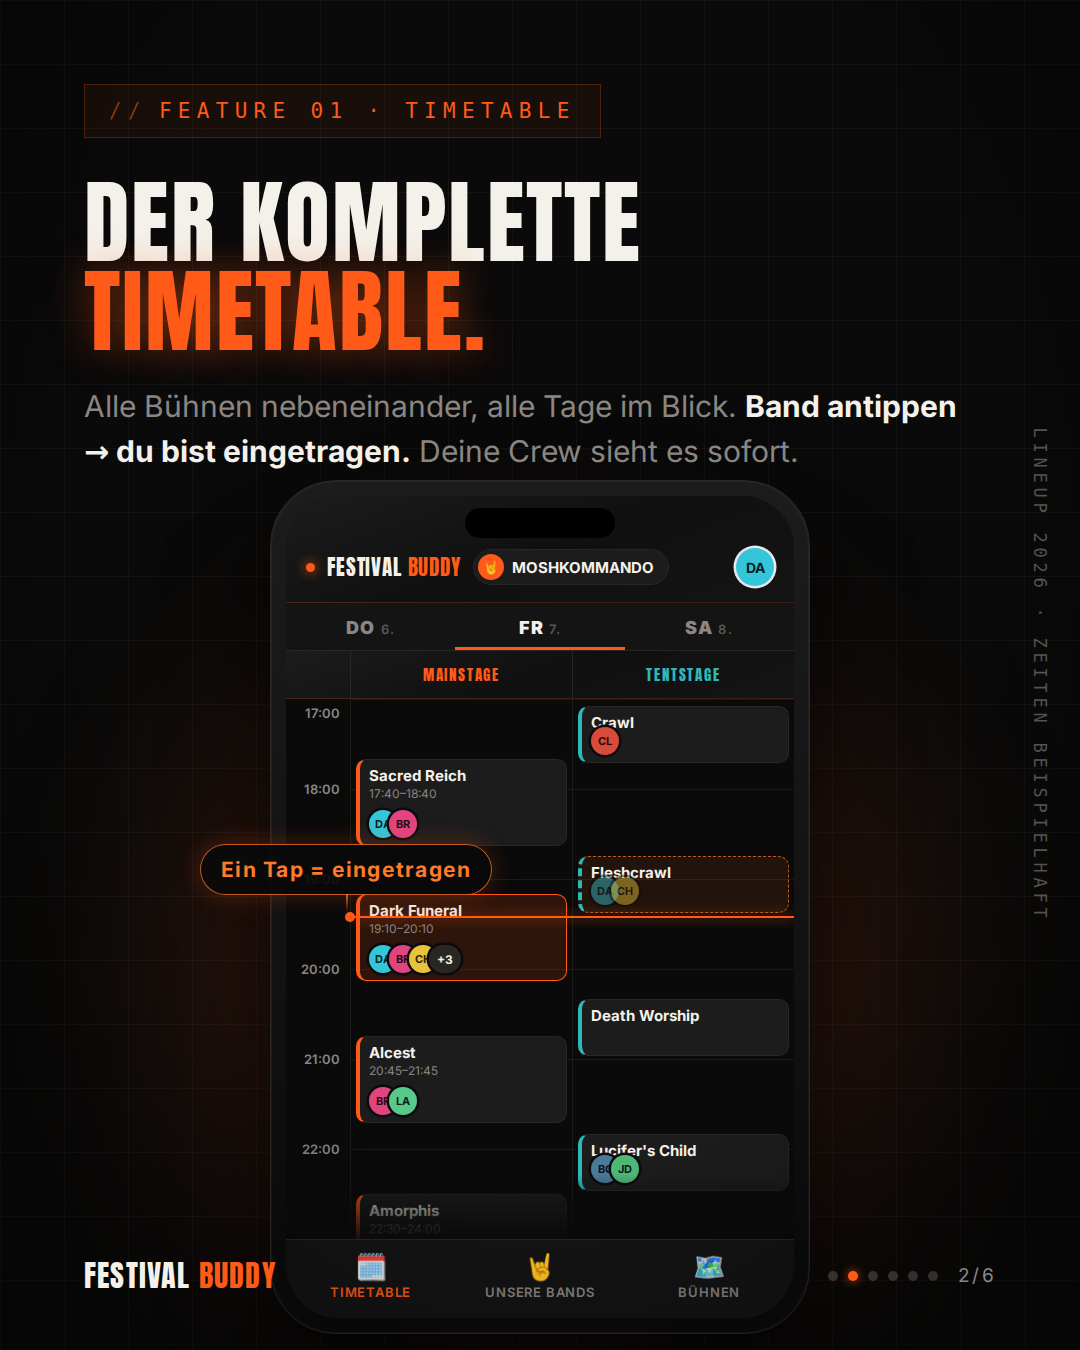
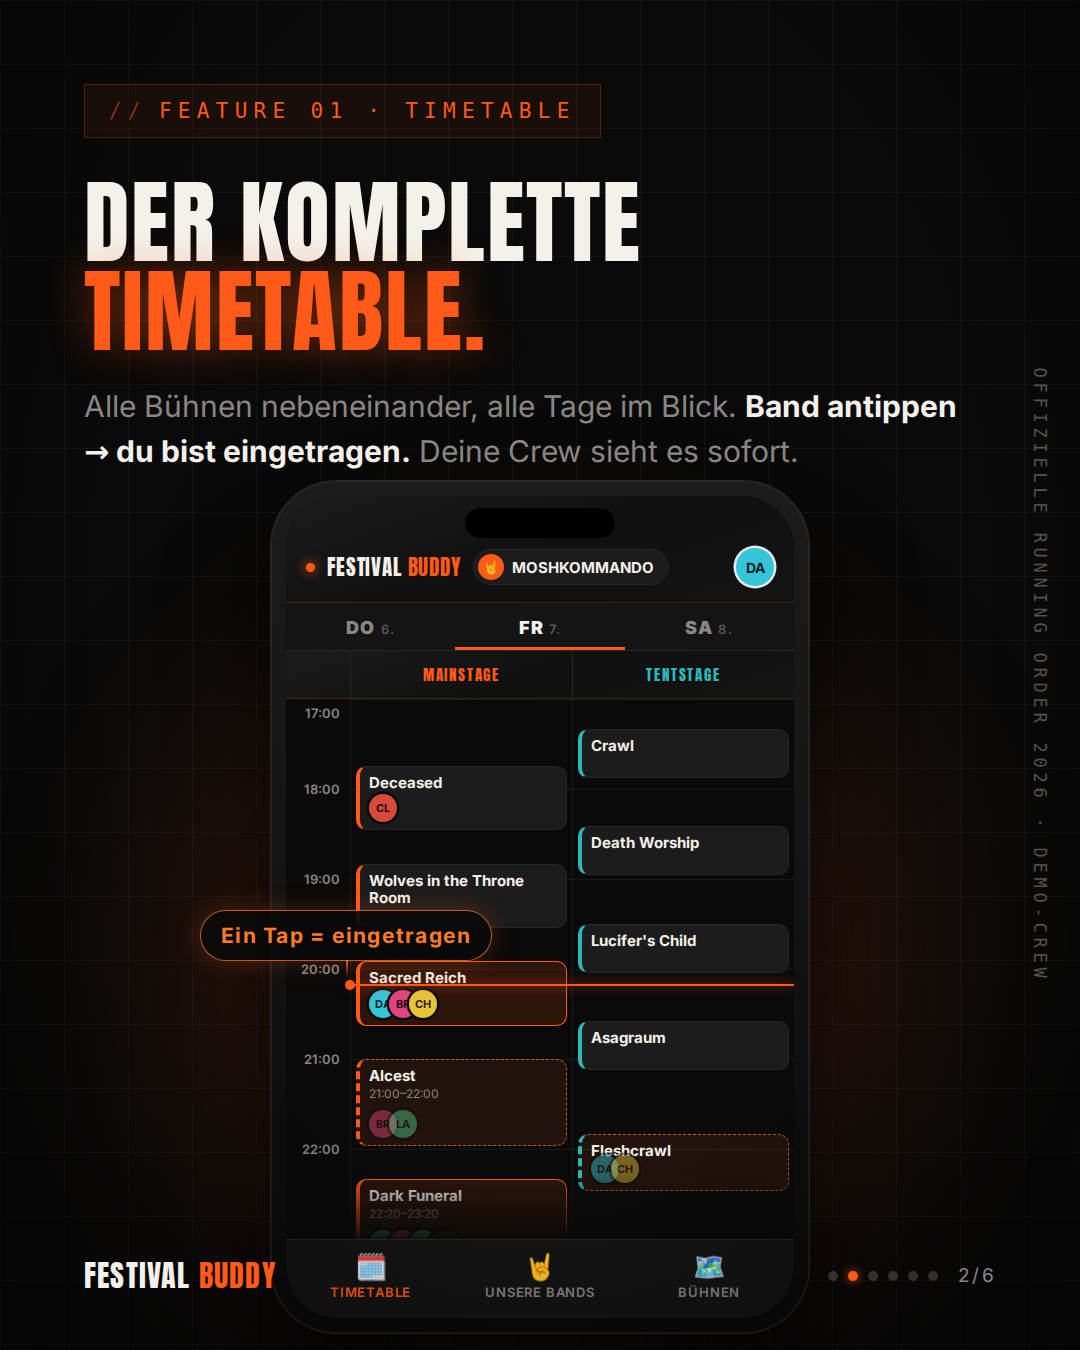
Party.San-Slides: offizielle Set-Zeiten aus der Running Order übernehmen
Freitag jetzt mit den echten Slots (Deceased 17:45, Wolves in the Throne
Room 18:50, Sacred Reich 19:55, Alcest 21:00, Dark Funeral 22:20,
Amorphis 23:45–01:00; Zelt: Crawl, Death Worship, Lucifer's Child,
Asagraum, Fleshcrawl 21:50) sowie Samstag Marduk 22:20 und Hypocrisy
23:45. Randvermerk zu „Offizielle Running Order 2026 · Demo-Crew"
geändert, Caption/README entsprechend aktualisiert.

Claude-Session: https://claude.ai/code/session_01LqDVWkAJcfSMQa3GPH9HTd

diff --git a/docs/instagram/partysan/slides.html b/docs/instagram/partysan/slides.html
@@ -409,8 +409,8 @@
           <div class="day-h">Freitag <span class="d">· 07.08.</span></div>
           <div class="cards">
             <div class="card going">
-              <div class="tbox" style="background:rgba(255,90,23,.13);"><span class="t" style="color:#ff5a17;">17:40</span><span class="s" style="color:#ff5a17;">Main</span></div>
-              <div class="mid"><div class="band">Sacred Reich</div><div class="sub">Mainstage · bis 18:40 Uhr</div></div>
+              <div class="tbox" style="background:rgba(255,90,23,.13);"><span class="t" style="color:#ff5a17;">19:55</span><span class="s" style="color:#ff5a17;">Main</span></div>
+              <div class="mid"><div class="band">Sacred Reich</div><div class="sub">Mainstage · bis 20:40 Uhr</div></div>
               <div class="right">
                 <span style="display:flex;padding-left:8px;">
                   <span class="ava first" style="background:#35c5d8;">DA</span><span class="ava" style="background:#e0457f;">BR</span><span class="ava" style="background:#e8c33a;">CH</span>
@@ -424,8 +424,8 @@
                 <span class="fl" style="left:47%;height:22px;"></span><span class="fl" style="left:66%;height:32px;width:26px;"></span>
                 <span class="fl" style="left:86%;height:24px;"></span>
               </div>
-              <div class="tbox" style="background:rgba(255,90,23,.13);"><span class="t" style="color:#ff5a17;">19:10</span><span class="s" style="color:#ff5a17;">Main</span></div>
-              <div class="mid"><div class="band">Dark Funeral</div><div class="sub">Mainstage · bis 20:10 Uhr</div></div>
+              <div class="tbox" style="background:rgba(255,90,23,.13);"><span class="t" style="color:#ff5a17;">22:20</span><span class="s" style="color:#ff5a17;">Main</span></div>
+              <div class="mid"><div class="band">Dark Funeral</div><div class="sub">Mainstage · bis 23:20 Uhr</div></div>
               <div class="right">
                 <span style="display:flex;padding-left:8px;">
                   <span class="ava first" style="background:#35c5d8;">DA</span><span class="ava" style="background:#e0457f;">BR</span><span class="ava" style="background:#57c98a;">LA</span><span class="ava more">+4</span>
@@ -434,8 +434,8 @@
               </div>
             </div>
             <div class="card going">
-              <div class="tbox" style="background:rgba(255,90,23,.13);"><span class="t" style="color:#ff5a17;">22:30</span><span class="s" style="color:#ff5a17;">Main</span></div>
-              <div class="mid"><div class="band">Amorphis</div><div class="sub">Mainstage · bis 24:00 Uhr</div></div>
+              <div class="tbox" style="background:rgba(255,90,23,.13);"><span class="t" style="color:#ff5a17;">23:45</span><span class="s" style="color:#ff5a17;">Main</span></div>
+              <div class="mid"><div class="band">Amorphis</div><div class="sub">Mainstage · bis 01:00 Uhr</div></div>
               <div class="right">
                 <span style="display:flex;padding-left:8px;">
                   <span class="ava first" style="background:#35c5d8;">DA</span><span class="ava" style="background:#e0457f;">BR</span><span class="ava" style="background:#e8c33a;">CH</span><span class="ava more">+3</span>
@@ -449,7 +449,7 @@
     </div>
   </div>
 
-  <div class="demo-note mono">Lineup 2026 · Zeiten beispielhaft</div>
+  <div class="demo-note mono">Offizielle Running Order 2026 · Demo-Crew</div>
   <div class="foot">
     <span class="wordmark metal">Festival <span>Buddy</span></span>
     <span class="dots"><i class="on"></i><i></i><i></i><i></i><i></i><i></i><span class="n">1/6</span></span>
@@ -506,43 +506,51 @@
           <span class="hour" style="top:450px;">22:00</span>
         </div>
         <div class="col">
-          <div class="gslot" style="top:60px;height:87px;border-left-color:#ff5a17;">
-            <div class="b">Sacred Reich</div><div class="tm">17:40–18:40</div>
-            <div class="avs"><span class="ava first" style="background:#35c5d8;">DA</span><span class="ava" style="background:#e0457f;">BR</span></div>
+          <div class="gslot" style="top:67px;height:64px;border-left-color:#ff5a17;">
+            <div class="b">Deceased</div>
+            <div class="avs"><span class="ava first" style="background:#d84a3a;">CL</span></div>
           </div>
-          <div class="gslot going" style="top:195px;height:87px;">
-            <div class="b">Dark Funeral</div><div class="tm">19:10–20:10</div>
+          <div class="gslot" style="top:165px;height:64px;border-left-color:#ff5a17;">
+            <div class="b">Wolves in the Throne Room</div>
+          </div>
+          <div class="gslot going" style="top:262px;height:65px;">
+            <div class="b">Sacred Reich</div>
             <div class="avs">
               <span class="ava first" style="background:#35c5d8;">DA</span><span class="ava" style="background:#e0457f;">BR</span>
-              <span class="ava" style="background:#e8c33a;">CH</span><span class="ava more">+3</span>
+              <span class="ava" style="background:#e8c33a;">CH</span>
             </div>
           </div>
-          <div class="gslot" style="top:337px;height:87px;border-left-color:#ff5a17;">
-            <div class="b">Alcest</div><div class="tm">20:45–21:45</div>
-            <div class="avs"><span class="ava first" style="background:#e0457f;">BR</span><span class="ava" style="background:#57c98a;">LA</span></div>
+          <div class="gslot interested" style="top:360px;height:87px;border-left-color:#ff5a17;">
+            <div class="b">Alcest</div><div class="tm">21:00–22:00</div>
+            <div class="avs"><span class="ava first faded" style="background:#e0457f;">BR</span><span class="ava faded" style="background:#57c98a;">LA</span></div>
           </div>
-          <div class="gslot" style="top:495px;height:60px;border-left-color:#ff5a17;">
-            <div class="b">Amorphis</div><div class="tm">22:30–24:00</div>
+          <div class="gslot going" style="top:480px;height:87px;">
+            <div class="b">Dark Funeral</div><div class="tm">22:20–23:20</div>
+            <div class="avs">
+              <span class="ava first" style="background:#35c5d8;">DA</span><span class="ava" style="background:#e0457f;">BR</span>
+              <span class="ava" style="background:#57c98a;">LA</span><span class="ava more">+4</span>
+            </div>
           </div>
         </div>
         <div class="col">
-          <div class="gslot" style="top:7px;height:57px;border-left-color:#2fb8b8;">
+          <div class="gslot" style="top:30px;height:49px;border-left-color:#2fb8b8;">
             <div class="b">Crawl</div>
-            <div class="avs"><span class="ava first" style="background:#d84a3a;">CL</span></div>
           </div>
-          <div class="gslot interested" style="top:157px;height:57px;border-left-color:#2fb8b8;">
+          <div class="gslot" style="top:127px;height:49px;border-left-color:#2fb8b8;">
+            <div class="b">Death Worship</div>
+          </div>
+          <div class="gslot" style="top:225px;height:49px;border-left-color:#2fb8b8;">
+            <div class="b">Lucifer's Child</div>
+          </div>
+          <div class="gslot" style="top:322px;height:49px;border-left-color:#2fb8b8;">
+            <div class="b">Asagraum</div>
+          </div>
+          <div class="gslot interested" style="top:435px;height:57px;border-left-color:#2fb8b8;">
             <div class="b">Fleshcrawl</div>
             <div class="avs"><span class="ava first faded" style="background:#35c5d8;">DA</span><span class="ava faded" style="background:#e8c33a;">CH</span></div>
           </div>
-          <div class="gslot" style="top:300px;height:57px;border-left-color:#2fb8b8;">
-            <div class="b">Death Worship</div>
-          </div>
-          <div class="gslot" style="top:435px;height:57px;border-left-color:#2fb8b8;">
-            <div class="b">Lucifer's Child</div>
-            <div class="avs"><span class="ava first" style="background:#4a7a9a;">BO</span><span class="ava" style="background:#4fb877;">JD</span></div>
-          </div>
         </div>
-        <div class="now-line" style="top:217px;"></div>
+        <div class="now-line" style="top:285px;"></div>
       </div>
       <div class="fade-bottom" style="bottom:74px;"></div>
       <div class="bottom-nav">
@@ -553,8 +561,8 @@
     </div>
   </div>
 
-  <div class="callout" style="left:200px;top:844px;--tail:18px;">Ein Tap = eingetragen</div>
-  <div class="demo-note mono">Lineup 2026 · Zeiten beispielhaft</div>
+  <div class="callout" style="left:200px;top:910px;--tail:18px;">Ein Tap = eingetragen</div>
+  <div class="demo-note mono">Offizielle Running Order 2026 · Demo-Crew</div>
 
   <div class="foot">
     <span class="wordmark metal">Festival <span>Buddy</span></span>
@@ -590,8 +598,8 @@
           <div class="day-h">Freitag <span class="d">· 07.08.</span></div>
           <div class="cards">
             <div class="card going">
-              <div class="tbox" style="background:rgba(255,90,23,.13);"><span class="t" style="color:#ff5a17;">17:40</span><span class="s" style="color:#ff5a17;">Main</span></div>
-              <div class="mid"><div class="band">Sacred Reich</div><div class="sub">Mainstage · bis 18:40 Uhr</div></div>
+              <div class="tbox" style="background:rgba(255,90,23,.13);"><span class="t" style="color:#ff5a17;">19:55</span><span class="s" style="color:#ff5a17;">Main</span></div>
+              <div class="mid"><div class="band">Sacred Reich</div><div class="sub">Mainstage · bis 20:40 Uhr</div></div>
               <div class="right">
                 <span style="display:flex;padding-left:8px;">
                   <span class="ava first" style="background:#35c5d8;">DA</span><span class="ava" style="background:#e0457f;">BR</span><span class="ava" style="background:#e8c33a;">CH</span>
@@ -600,8 +608,8 @@
               </div>
             </div>
             <div class="card interested">
-              <div class="tbox" style="background:rgba(47,184,184,.13);"><span class="t" style="color:#2fb8b8;">18:45</span><span class="s" style="color:#2fb8b8;">Tent</span></div>
-              <div class="mid"><div class="band">Fleshcrawl</div><div class="sub">Tentstage · bis 19:25 Uhr</div></div>
+              <div class="tbox" style="background:rgba(47,184,184,.13);"><span class="t" style="color:#2fb8b8;">21:50</span><span class="s" style="color:#2fb8b8;">Tent</span></div>
+              <div class="mid"><div class="band">Fleshcrawl</div><div class="sub">Tentstage · bis 22:30 Uhr</div></div>
               <div class="right">
                 <span style="display:flex;padding-left:8px;">
                   <span class="ava first faded" style="background:#35c5d8;">DA</span><span class="ava faded" style="background:#e8c33a;">CH</span>
@@ -615,8 +623,8 @@
                 <span class="fl" style="left:38%;height:24px;"></span><span class="fl" style="left:55%;height:36px;width:28px;"></span>
                 <span class="fl" style="left:72%;height:26px;"></span><span class="fl" style="left:88%;height:30px;"></span>
               </div>
-              <div class="tbox" style="background:rgba(255,90,23,.13);"><span class="t" style="color:#ff5a17;">19:10</span><span class="s" style="color:#ff5a17;">Main</span></div>
-              <div class="mid"><div class="band">Dark Funeral</div><div class="sub">Mainstage · bis 20:10 Uhr</div></div>
+              <div class="tbox" style="background:rgba(255,90,23,.13);"><span class="t" style="color:#ff5a17;">22:20</span><span class="s" style="color:#ff5a17;">Main</span></div>
+              <div class="mid"><div class="band">Dark Funeral</div><div class="sub">Mainstage · bis 23:20 Uhr</div></div>
               <div class="right">
                 <span style="display:flex;padding-left:8px;">
                   <span class="ava first" style="background:#35c5d8;">DA</span><span class="ava" style="background:#e0457f;">BR</span>
@@ -626,8 +634,8 @@
               </div>
             </div>
             <div class="card going">
-              <div class="tbox" style="background:rgba(255,90,23,.13);"><span class="t" style="color:#ff5a17;">22:30</span><span class="s" style="color:#ff5a17;">Main</span></div>
-              <div class="mid"><div class="band">Amorphis</div><div class="sub">Mainstage · bis 24:00 Uhr</div></div>
+              <div class="tbox" style="background:rgba(255,90,23,.13);"><span class="t" style="color:#ff5a17;">23:45</span><span class="s" style="color:#ff5a17;">Main</span></div>
+              <div class="mid"><div class="band">Amorphis</div><div class="sub">Mainstage · bis 01:00 Uhr</div></div>
               <div class="right">
                 <span style="display:flex;padding-left:8px;">
                   <span class="ava first" style="background:#35c5d8;">DA</span><span class="ava" style="background:#e0457f;">BR</span><span class="ava" style="background:#e8c33a;">CH</span><span class="ava more">+3</span>
@@ -641,8 +649,8 @@
           <div class="day-h">Samstag <span class="d">· 08.08.</span></div>
           <div class="cards">
             <div class="card going">
-              <div class="tbox" style="background:rgba(255,90,23,.13);"><span class="t" style="color:#ff5a17;">20:45</span><span class="s" style="color:#ff5a17;">Main</span></div>
-              <div class="mid"><div class="band">Marduk</div><div class="sub">Mainstage · bis 21:45 Uhr</div></div>
+              <div class="tbox" style="background:rgba(255,90,23,.13);"><span class="t" style="color:#ff5a17;">22:20</span><span class="s" style="color:#ff5a17;">Main</span></div>
+              <div class="mid"><div class="band">Marduk</div><div class="sub">Mainstage · bis 23:20 Uhr</div></div>
               <div class="right">
                 <span style="display:flex;padding-left:8px;">
                   <span class="ava first" style="background:#e0457f;">BR</span><span class="ava" style="background:#57c98a;">LA</span>
@@ -652,8 +660,8 @@
               </div>
             </div>
             <div class="card going">
-              <div class="tbox" style="background:rgba(255,90,23,.13);"><span class="t" style="color:#ff5a17;">22:30</span><span class="s" style="color:#ff5a17;">Main</span></div>
-              <div class="mid"><div class="band">Hypocrisy</div><div class="sub">Mainstage · bis 24:00 Uhr</div></div>
+              <div class="tbox" style="background:rgba(255,90,23,.13);"><span class="t" style="color:#ff5a17;">23:45</span><span class="s" style="color:#ff5a17;">Main</span></div>
+              <div class="mid"><div class="band">Hypocrisy</div><div class="sub">Mainstage · bis 01:00 Uhr</div></div>
               <div class="right">
                 <span style="display:flex;padding-left:8px;"><span class="ava first" style="background:#35c5d8;">DA</span><span class="ava" style="background:#57c98a;">LA</span></span>
                 <span class="pill">2</span>
@@ -672,7 +680,7 @@
   </div>
 
   <div class="callout" style="right:120px;top:754px;--tail:60px;">🔥 Hot Slot – alle gehen hin</div>
-  <div class="demo-note mono">Lineup 2026 · Zeiten beispielhaft</div>
+  <div class="demo-note mono">Offizielle Running Order 2026 · Demo-Crew</div>
 
   <div class="foot">
     <span class="wordmark metal">Festival <span>Buddy</span></span>
@@ -705,7 +713,7 @@
       </div>
       <div class="stage-page" style="padding-top:12px;">
         <div class="band-ctx">
-          <div class="tbox" style="background:rgba(255,90,23,.13);width:64px;height:58px;"><span class="t" style="color:#ff5a17;">19:10</span><span class="s" style="color:#ff5a17;">Main</span></div>
+          <div class="tbox" style="background:rgba(255,90,23,.13);width:64px;height:58px;"><span class="t" style="color:#ff5a17;">22:20</span><span class="s" style="color:#ff5a17;">Main</span></div>
           <div class="mid"><div class="band">Dark Funeral</div><div class="sub">Mainstage · 4 Marker aktiv</div></div>
           <div class="hint">Tippen = ✕ setzen</div>
         </div>
@@ -767,7 +775,7 @@
     </div>
   </div>
 
-  <div class="demo-note mono">Lineup 2026 · Zeiten beispielhaft</div>
+  <div class="demo-note mono">Offizielle Running Order 2026 · Demo-Crew</div>
 
   <div class="foot">
     <span class="wordmark metal">Festival <span>Buddy</span></span>

diff --git a/docs/instagram/partysan/README.md b/docs/instagram/partysan/README.md
@@ -17,20 +17,19 @@ vorzustellen.
 Die fertigen PNGs liegen in [`out/`](out/), ein Caption-Vorschlag in
 [`caption.md`](caption.md).
 
-## Wichtig: echte Bands, beispielhafte Zeiten
+## Datenstand
 
 Die Handy-Mockups sind **keine Screenshots**, sondern im App-Design
 nachgebaute Ansichten (analog zu `src/components/AppScreenshot.tsx`).
-Die gezeigten Bands, Tage (Do 6.8. – Sa 8.8.2026) und Bühnen
-(Mainstage/Tentstage) entsprechen der **offiziellen Running Order 2026**
-(party-san.de/bands-2026/running-order, abgerufen über Presse-Spiegel am
-03.08.2026, u. a. vampster.com und time-for-metal.eu, da die Seite selbst
-Bot-Zugriffe blockt). Die **Uhrzeiten sind beispielhaft** gesetzt – exakte
-Set-Zeiten waren nicht maschinenlesbar verfügbar, und die Slot-Reihenfolge
-am Freitagabend (Sacred Reich → Dark Funeral → Alcest → Amorphis) ist
-plausibel geschätzt. Jeder Mockup-Slide trägt deshalb den Randvermerk
-„Lineup 2026 · Zeiten beispielhaft". Vor dem Posten idealerweise die
-Zeiten in `slides.html` mit der finalen Running Order abgleichen.
+Bands, Tage (Do 6.8. – Sa 8.8.2026), Bühnen (Mainstage/Tentstage) **und
+Uhrzeiten** entsprechen der offiziellen Running Order 2026 von
+party-san.de/bands-2026/running-order (übernommen aus Screenshots der
+Seite, Stand 03.08.2026) – gezeigt wird der Freitagabend (Deceased,
+Wolves in the Throne Room, Sacred Reich, Alcest, Dark Funeral, Amorphis
+bzw. Crawl bis Fleshcrawl im Zelt) sowie Marduk und Hypocrisy am Samstag.
+Nur die **Crew ist fiktiv** (Avatare, Zusagen, Marker) – daher der
+Randvermerk „Offizielle Running Order 2026 · Demo-Crew" auf den
+Mockup-Slides.
 
 ## Neu rendern
 

diff --git a/docs/instagram/partysan/caption.md b/docs/instagram/partysan/caption.md
@@ -15,8 +15,7 @@
 >
 > Wir sehen uns in Obermehler. 🤘
 >
-> (Spielzeiten auf den Screens sind beispielhaft – die finale Running Order
-> gibt's wie immer auf party-san.de.)
+> (Die Crew auf den Screens ist Demo – die Running Order ist echt.)
 >
 > #partysan #partysanopenair #psoa #psoa2026 #festivalbuddy #metalfestival
 > #deathmetal #blackmetal #festivalcrew #runningorder #obermehler
@@ -26,4 +25,4 @@ Kurzvariante:
 > Wer geht zu welcher Band? 🤘 Mit Festival Buddy plant ihr das Party.San
 > als Crew: Running Order antippen, Hot Slots sehen, Leute im Pit finden,
 > Weckruf vor der Show – läuft sogar im Funkloch. Kostenlos im Browser,
-> Link in Bio. (Spielzeiten auf den Screens beispielhaft.)
+> Link in Bio.
